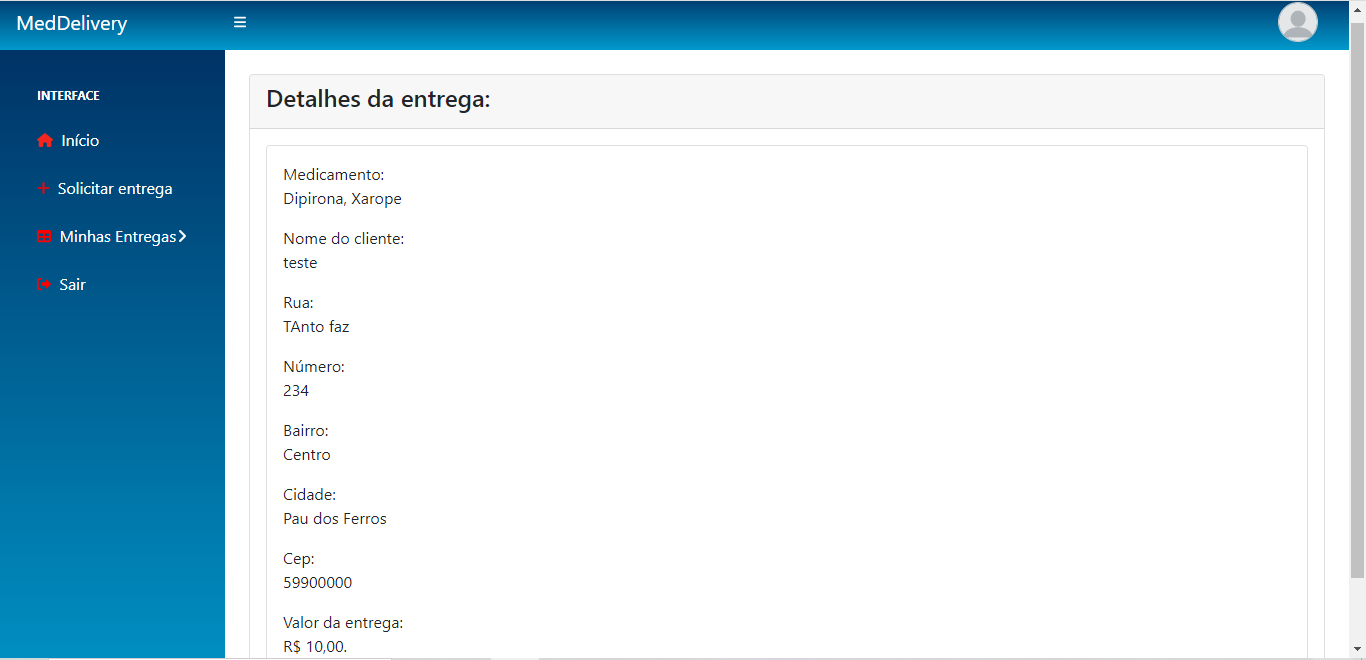
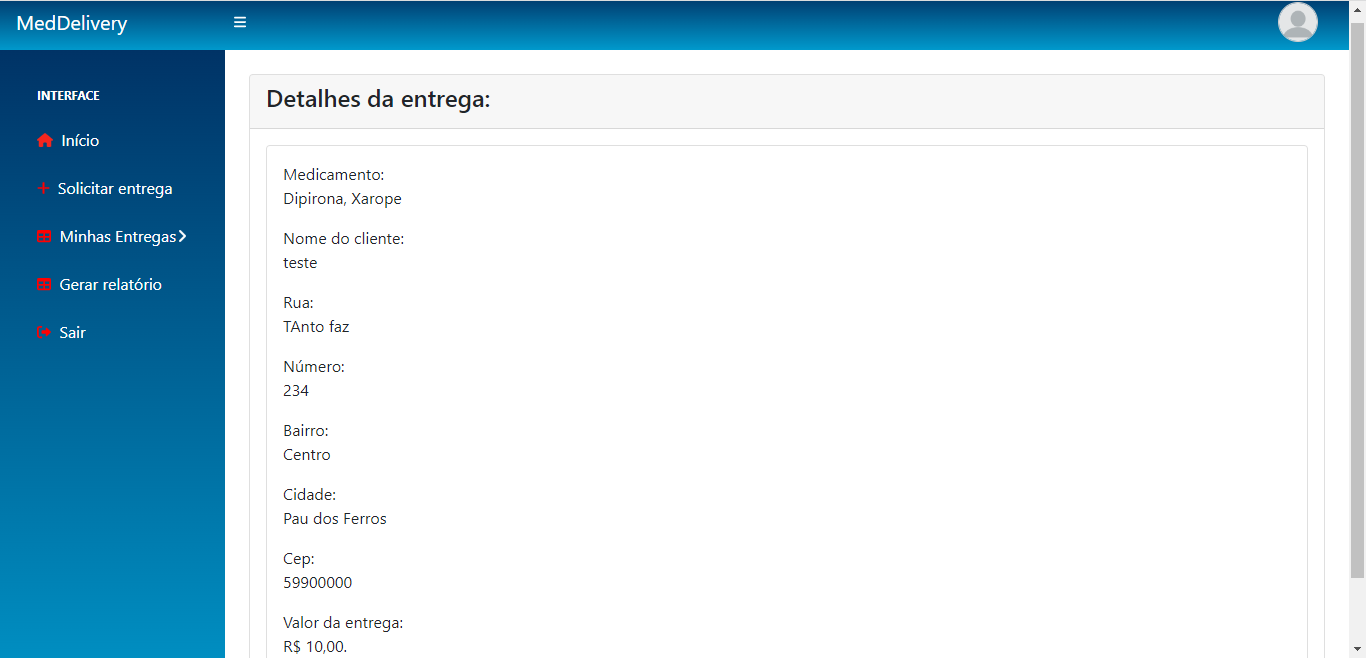
Relatório e re-upload prints Farmácia

diff --git a/FrontEnd - Farmácia/FrontEnd-Farmacia/resources/views/relatorio.blade.php b/FrontEnd - Farmácia/FrontEnd-Farmacia/resources/views/relatorio.blade.php
@@ -1,0 +1,72 @@
+@extends('layouts.master')
+@section('content')
+
+<div class="container-fluid px-4">
+    <div class="card mt-4">
+        <div class="card-header">
+            <h4>Relatório Anual</h4>
+            <a href="/" class="btn btn-dark btn-sm float-end">
+            <i class="fa-solid fa-download"></i>  
+                Fazer download 
+            </a>
+        </div>
+        <div class="card-body" style="overflow-x:auto;">
+            <table class="table table-bordered">
+                <thead>
+                    <tr>
+                        <th>Total de solicitações - 2022</th>
+                        <th>Solicitações canceladas - 2022</th>
+                        <th>Entregas efetuadas - 2022</th>
+                        <th>Entregas em andamento - 2022</th>
+                        <th>Valor gasto em entregas - 2022</th>
+                    </tr>
+                </thead>
+            
+                <tbody>
+                    <tr>
+                        <td>{{ $responseArray2['totalEntregas'] }}</td>
+                        <td>{{ $responseArray2['totalCancel'] }}</td>
+                        <td>{{ $responseArray2['entregasRealizadas'] }}</td>
+                        <td>{{ $responseArray2['totalAndamento'] }}</td>
+                        <td>R$ {{ $responseArray2['totalFrete'] }}</td>
+                        
+                    </tr>
+                </tbody>
+            </table>
+
+            <table class="table table-bordered">
+                <thead>
+                    <tr>
+                        <th>Cliente</th>
+                        <th>Rua</th>
+                        <th>Cidade</th>
+                        <th>Medicamento</th>
+                        <th>Preço</th>
+                    </tr>
+                </thead>
+            
+                <tbody>
+                @foreach($responseArray as $entrega)
+                @if($entrega['active'])
+                    <tr>
+                        <td>{{ $entrega['nome'] }}</td>
+                        <td>{{ $entrega['rua'] }}</td>
+                        <td>{{ $entrega['cidade'] }}</td>
+                        <td>{{ $entrega['medicamento'] }}</td>
+                        <td>{{ $entrega['preco'] }}</td>
+                    </tr>
+                @endif
+                @endforeach
+                </tbody>
+            </table>
+            
+        </div>
+    </div>
+</div>
+
+
+
+
+
+
+@endsection

diff --git a/FrontEnd - Farmácia/FrontEnd-Farmacia/app/Http/Controllers/flaskApiController.php b/FrontEnd - Farmácia/FrontEnd-Farmacia/app/Http/Controllers/flaskApiController.php
@@ -62,11 +62,11 @@ class flaskApiController extends Controller
             'x-access-token' => 'eyJ0eXAiOiJKV1QiLCJhbGciOiJIUzI1NiJ9.eyJlbWFpbCI6InRlc3RlQHRlc3RlLmNvbSIsImV4cCI6MTY2MTQzODc3M30.0PB047n_S3IS_qFpUdBl1FMWbzDwmEbr7XSNqNzQWA0'
         ]; 
         //Pega o Id do usuário logado.
-        $id_log = intval(getCookie_log()); 
+        //$id_log = intval(getCookie_log()); 
         $response = Http::withHeaders($header)->post('http://127.0.0.1:8090/entregas',[
-        'id_cliente' => $id_log, //Passa o id do usuário logado exemplificado caso a empresa disponibilize o frontend para o cliente como um serviço extra. 
+        //'id_cliente' => $id_log, //Passa o id do usuário logado exemplificado caso a empresa disponibilize o frontend para o cliente como um serviço extra. 
         //Sendo backend próprio, a farmácia em questão passa o próprio id como exemplificado abaixo(consequentemente, a linha 65 não precisaria existir):
-        //'id_cliente' => 1,
+        'id_cliente' => 1,
         'medicamento' => $request->input('medicamento'),
         'nome' => $request->input('nome'),
         'rua' => $request->input('rua'),
@@ -130,5 +130,19 @@ class flaskApiController extends Controller
         $response = Http::withHeaders($header)->get('http://127.0.0.1:8090/entregas');
         $response2 = $response->json();
         return view('entregues', compact('response2','id_log'));
+    }
+
+    public function gerar_relatorio(){
+        $header = [
+            'x-access-token' => 'eyJ0eXAiOiJKV1QiLCJhbGciOiJIUzI1NiJ9.eyJlbWFpbCI6InRlc3RlQHRlc3RlLmNvbSIsImV4cCI6MTY2MTQzODc3M30.0PB047n_S3IS_qFpUdBl1FMWbzDwmEbr7XSNqNzQWA0'
+        ];
+        
+        $response = Http::withHeaders($header)->get('http://127.0.0.1:8090/entregas/relatorio/'. 1);
+        $responseArray = $response->json();
+
+        $response2 = Http::withHeaders($header)->get('http://127.0.0.1:8090/entregas/relatorio');
+        $responseArray2 = $response2->json();
+
+        return view('relatorio', compact('responseArray', 'responseArray2'));
     }
 }

diff --git a/FrontEnd - Farmácia/FrontEnd-Farmacia/resources/views/detalhes.blade.php b/FrontEnd - Farmácia/FrontEnd-Farmacia/resources/views/detalhes.blade.php
@@ -75,11 +75,16 @@
                                     </a>
                                 </nav>
                             </div>
+                            
+                            <a class="nav-link" style="color: white;" href="/relatorio">
+                                <div class="sb-nav-link-icon" style="color: red;"><i class="fas fa-table"></i> </div>
+                                Gerar relatório
+                            </a>
 
-                        <a class="nav-link" style="color: white;" href="/">
-                            <div class="sb-nav-link-icon" style="color: red;"><i class="fa-solid fa-right-from-bracket"></i> </div>
-                            Sair
-                        </a>
+                            <a class="nav-link" style="color: white;" href="/">
+                                <div class="sb-nav-link-icon" style="color: red;"><i class="fa-solid fa-right-from-bracket"></i> </div>
+                                Sair
+                            </a>
                     </div>
                 </div>
             

diff --git a/FrontEnd - Farmácia/FrontEnd-Farmacia/resources/views/editarEntrega.blade.php b/FrontEnd - Farmácia/FrontEnd-Farmacia/resources/views/editarEntrega.blade.php
@@ -76,10 +76,15 @@
                                 </nav>
                             </div>
 
-                        <a class="nav-link" style="color: white;" href="/">
-                            <div class="sb-nav-link-icon" style="color: red;"><i class="fa-solid fa-right-from-bracket"></i> </div>
-                            Sair
-                        </a>
+                            <a class="nav-link" style="color: white;" href="/relatorio">
+                                <div class="sb-nav-link-icon" style="color: red;"><i class="fas fa-table"></i> </div>
+                                Gerar relatório
+                            </a>
+
+                            <a class="nav-link" style="color: white;" href="/">
+                                <div class="sb-nav-link-icon" style="color: red;"><i class="fa-solid fa-right-from-bracket"></i> </div>
+                                Sair
+                            </a>
                     </div>
                 </div>
             

diff --git a/FrontEnd - Farmácia/FrontEnd-Farmacia/routes/web.php b/FrontEnd - Farmácia/FrontEnd-Farmacia/routes/web.php
@@ -40,6 +40,10 @@ Route::get('/entregues', function () {
     return view('entregues');
 });
 
+Route::get('/relatorio', function () {
+    return view('relatorio');
+});
+
 Route::get('/fazerLogin', [flaskApiController::class, 'fazerLogin']);
 Route::get('/home', [flaskApiController::class, 'listaEntregas']);
 Route::get('/detalhesentrega/{id}', [flaskAPIController::class, 'detalhesentrega'])->name('details');
@@ -49,3 +53,4 @@ Route::get('/editar2/{id}', [flaskAPIController::class, 'editar2'])->name('edita
 Route::get('/removeentrega/{id}', [flaskAPIController::class, 'removeentrega'])->name('delete_entrega');
 Route::get('/andamento', [flaskApiController::class, 'listaAndamentos']);
 Route::get('/entregues', [flaskApiController::class, 'listaEntregues']);
+Route::get('relatorio', [flaskApiController::class, 'gerar_relatorio']);

diff --git a/FrontEnd - Farmácia/FrontEnd-Farmacia/resources/views/layouts/client-sidebar.blade.php b/FrontEnd - Farmácia/FrontEnd-Farmacia/resources/views/layouts/client-sidebar.blade.php
@@ -33,6 +33,11 @@
                                 </nav>
                             </div>
 
+                            <a class="nav-link" style="color: white;" href="/relatorio">
+                                <div class="sb-nav-link-icon" style="color: red;"><i class="fas fa-table"></i> </div>
+                                Gerar relatório
+                            </a>
+
                             <a class="nav-link" style="color: white;" href="/">
                                 <div class="sb-nav-link-icon" style="color: red;"><i class="fa-solid fa-right-from-bracket"></i> </div>
                                 Sair
